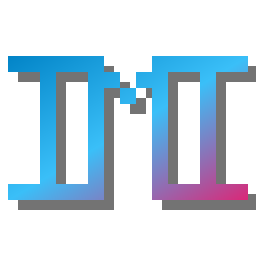
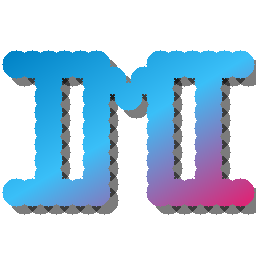
아이콘 획 굵기 대폭 강화 — dilation radius=scale*0.9
- 각 픽셀을 원형으로 확장해 크롬처럼 꽉 차 보이는 획
- 32px: 반지름 2px 확장 → 5×5 원형 블롭
- 48px: 반지름 3px → 7×7
- 그림자도 동일 radius 적용

diff --git a/desktop-app/create-icon.js b/desktop-app/create-icon.js
@@ -93,27 +93,21 @@ function setPixel(img, W, H, x, y, r, g, b, a) {
     img[i+3]=Math.round(oa*255);
 }
 
-// ── 글리프 렌더링 ─────────────────────────────────────────
-function renderGlyph(img, W, H, glyph, x0, y0, scale, offX, offY, r, g, b, a) {
+// ── 글리프 렌더링 (원형 확장으로 굵은 획) ───────────────────
+// radius: 각 픽셀을 원형으로 r만큼 확장 → 선 굵기 증가
+function renderGlyphColor(img, W, H, glyph, x0, y0, scale, tW, tH, radius, offX, offY, fr, fg, fb, fa) {
     glyph.forEach((row, ry) => {
         [...row].forEach((bit, cx) => {
             if(bit !== '1') return;
-            for(let sy=0; sy<scale; sy++)
-                for(let sx=0; sx<scale; sx++)
-                    setPixel(img,W,H, x0+cx*scale+sx+offX, y0+ry*scale+sy+offY, r,g,b,a);
-        });
-    });
-}
-function renderGlyphGrad(img, W, H, glyph, x0, y0, scale, tW, tH) {
-    glyph.forEach((row, ry) => {
-        [...row].forEach((bit, cx) => {
-            if(bit !== '1') return;
-            for(let sy=0; sy<scale; sy++) {
-                for(let sx=0; sx<scale; sx++) {
-                    const px=cx*scale+sx, py=ry*scale+sy;
-                    const t=(px/tW + py/tH)/2;
-                    const [r,g,b]=gradColor(t);
-                    setPixel(img,W,H, x0+px, y0+py, r,g,b, 255);
+            const basePx = cx*scale + scale*0.5;
+            const basePy = ry*scale + scale*0.5;
+            for(let dy=-radius; dy<=radius; dy++) {
+                for(let dx=-radius; dx<=radius; dx++) {
+                    if(dx*dx + dy*dy > radius*radius) continue;
+                    const px=Math.round(basePx+dx), py=Math.round(basePy+dy);
+                    const t=((px/tW)+(py/tH))/2;
+                    const [r,g,b] = (fr===-1) ? gradColor(t) : [fr,fg,fb];
+                    setPixel(img,W,H, x0+px+offX, y0+py+offY, r,g,b, fa);
                 }
             }
         });
@@ -141,12 +135,15 @@ function createIconPNG(size) {
     sx=Math.round((W-tW)/2);
     sy=Math.round((H-tH)/2);
 
-    // 1) 그림자 (오른쪽 아래 1~2px, 반투명 어두운색)
-    const sOff=Math.max(1, Math.round(scale*0.6));
-    renderGlyph(img,W,H,glyph,sx,sy,scale, sOff,sOff, 0,0,0, 140);
+    // 획 굵기: scale 비례로 확장 (크롬 아이콘처럼 꽉 차 보이도록)
+    const radius = Math.max(1, Math.round(scale * 0.9));
 
-    // 2) 글자 본체 — 파랑→핑크 그라데이션
-    renderGlyphGrad(img,W,H,glyph,sx,sy,scale, tW,tH);
+    // 1) 그림자 (offset + 동일 radius)
+    const sOff = Math.max(1, Math.round(scale * 0.5));
+    renderGlyphColor(img,W,H,glyph,sx,sy,scale,tW,tH,radius, sOff,sOff, 0,0,0, 130);
+
+    // 2) 글자 본체 — 파랑→핑크 그라데이션 (fr=-1 이면 gradColor 사용)
+    renderGlyphColor(img,W,H,glyph,sx,sy,scale,tW,tH,radius, 0,0, -1,0,0, 255);
 
     return encodePNG(W,H,img);
 }